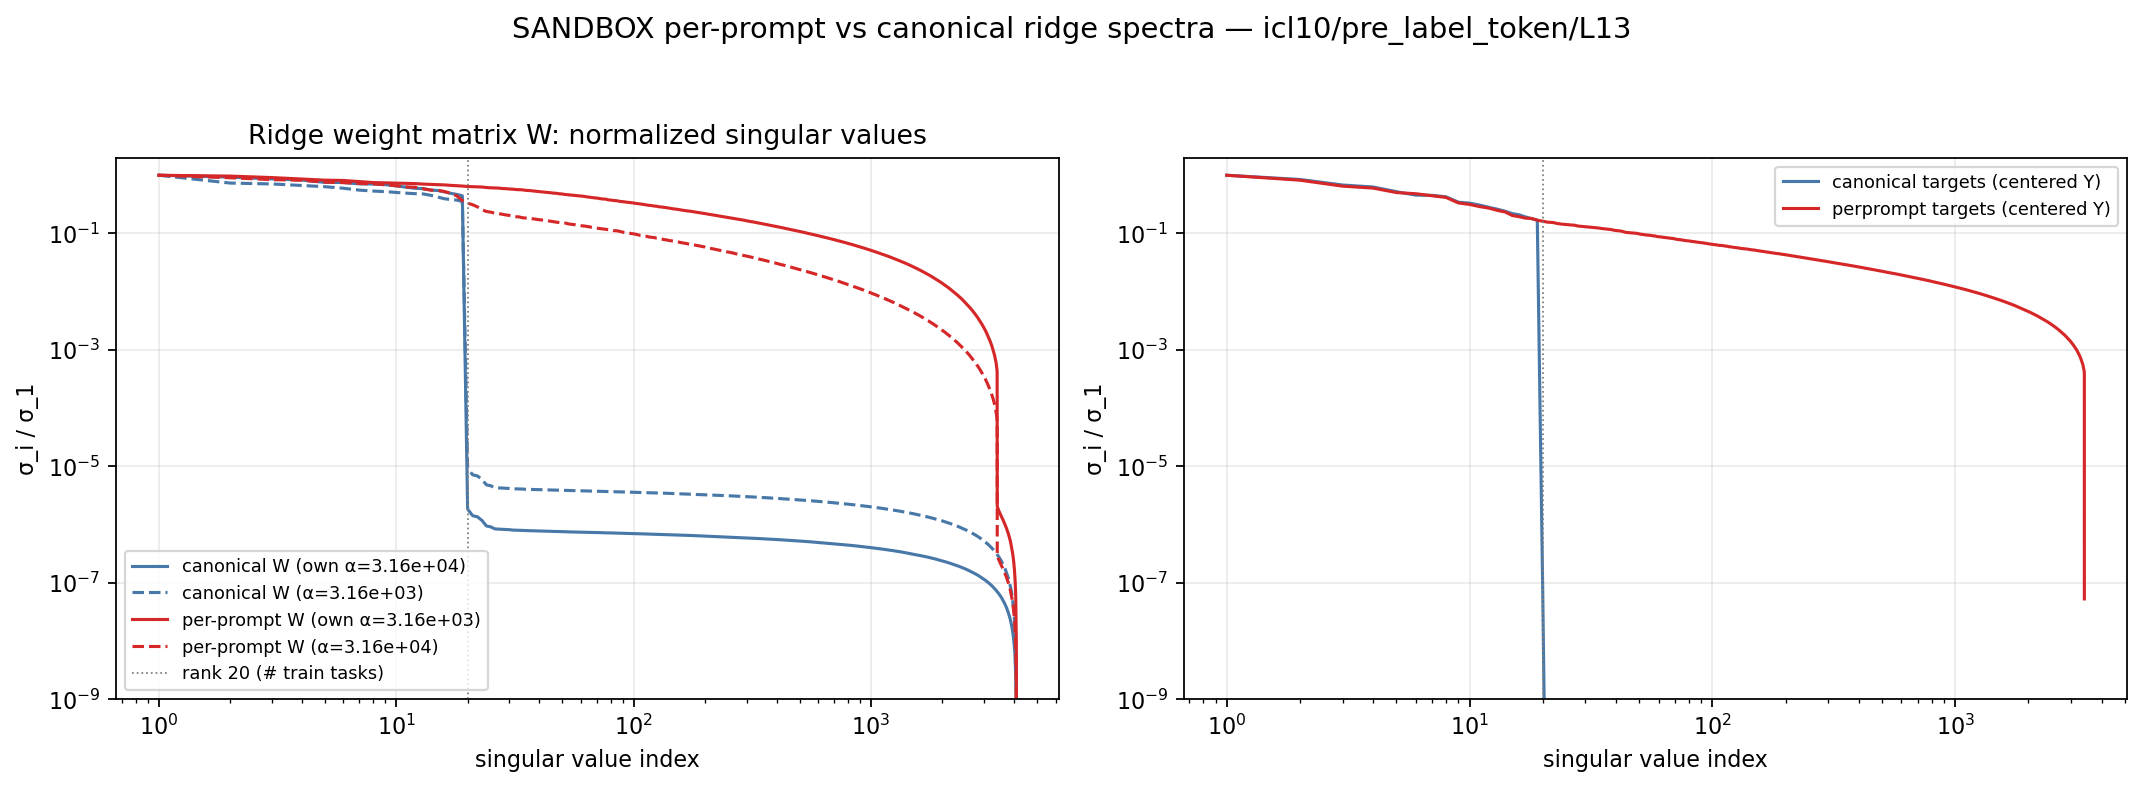
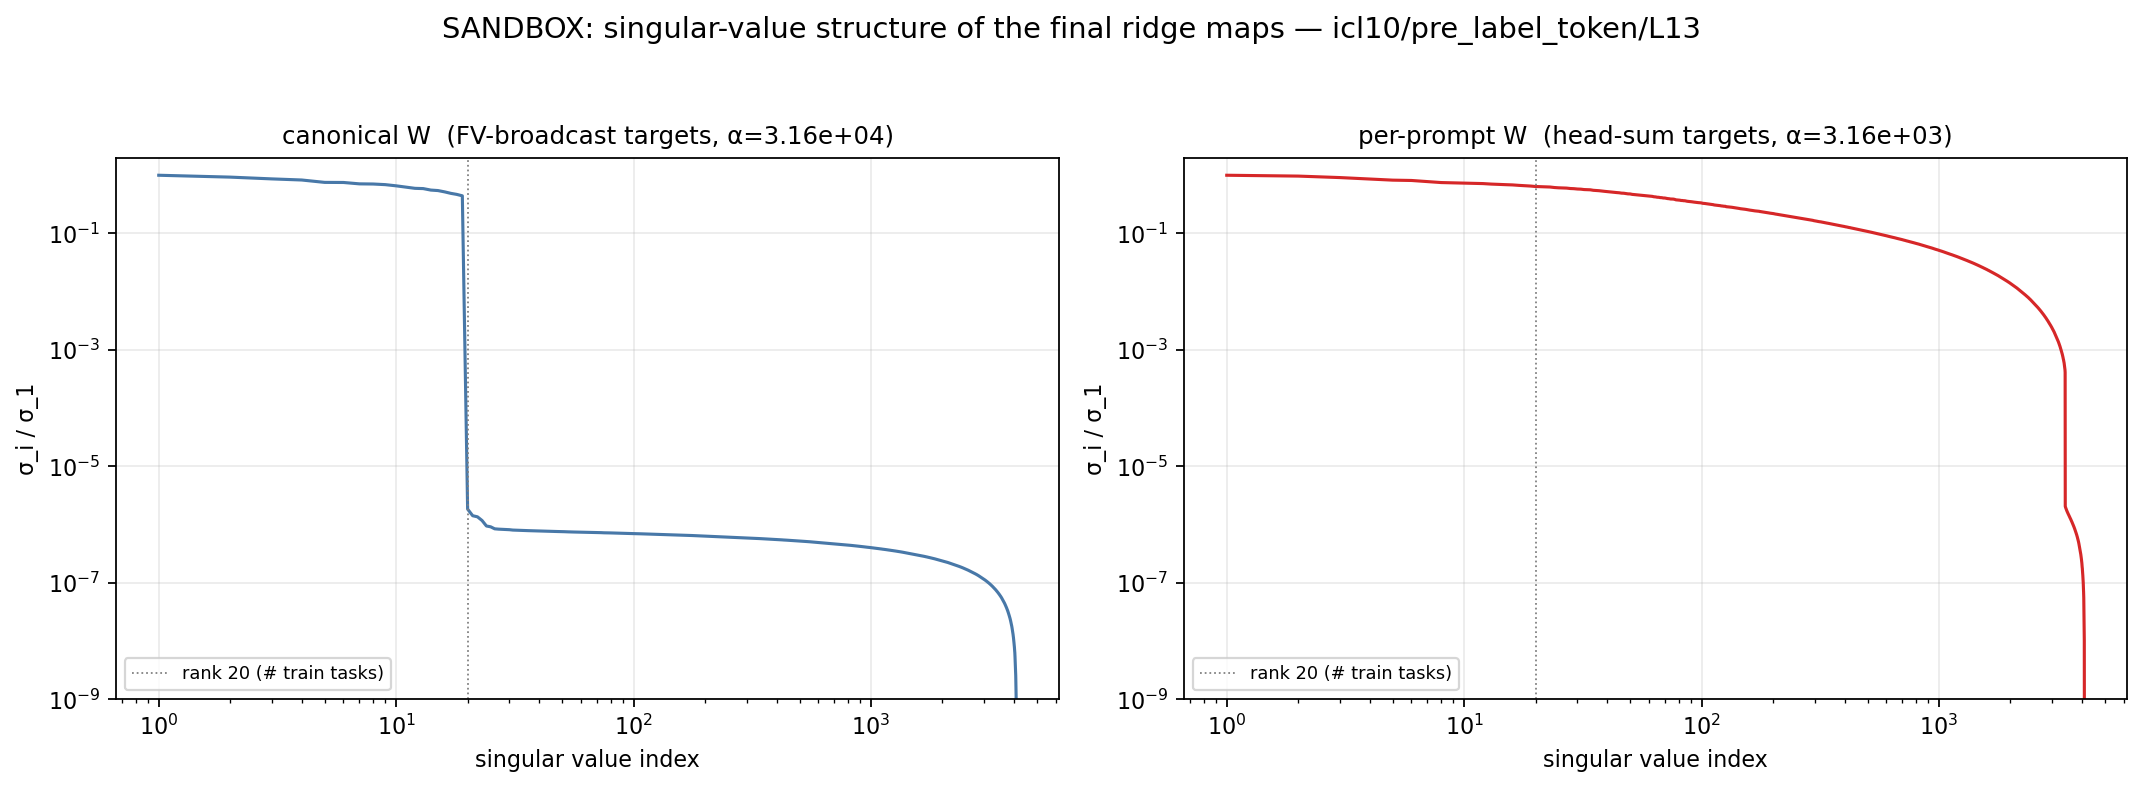
SANDBOX: spectrum figure redesign - two side-by-side panels, final own-alpha maps only
Per user request: one spectrum per panel for qualitative shape comparison
(no magnitude overlay, alpha-swap arms and target spectra dropped from the
figure; all spectra remain in spectra.npz).

diff --git a/src/sandbox/perprompt_fv/diagnose_weight_spectrum.py b/src/sandbox/perprompt_fv/diagnose_weight_spectrum.py
@@ -194,33 +194,27 @@ def main():
     np.savez_compressed(args.output_dir / "spectra.npz", **spectra)
     write_json(args.output_dir / "summary.json", summary)
 
-    # Summary figure: weight spectra (left), target spectra (right).
+    # Figure: the two FINAL maps (own CV-chosen alpha each), one spectrum per panel —
+    # side-by-side qualitative shape comparison, not a magnitude overlay.
+    panels = [
+        ("canonical_alpha_own", f"canonical W  (FV-broadcast targets, α={alphas['canonical']:.3g})", "#4878a8"),
+        ("perprompt_alpha_own", f"per-prompt W  (head-sum targets, α={alphas['perprompt']:.3g})", "#d62728"),
+    ]
     fig, axes = plt.subplots(1, 2, figsize=(13.5, 5.0))
-    styles = {
-        "canonical_alpha_own": dict(color="#4878a8", ls="-", label=f"canonical W (own α={alphas['canonical']:.3g})"),
-        "canonical_alpha_swapped": dict(color="#4878a8", ls="--", label=f"canonical W (α={alphas['perprompt']:.3g})"),
-        "perprompt_alpha_own": dict(color="#d62728", ls="-", label=f"per-prompt W (own α={alphas['perprompt']:.3g})"),
-        "perprompt_alpha_swapped": dict(color="#d62728", ls="--", label=f"per-prompt W (α={alphas['canonical']:.3g})"),
-    }
-    for label, st in styles.items():
+    for ax, (label, title, color) in zip(axes, panels):
         sv = spectra[f"sv_{label}"]
-        axes[0].plot(np.arange(1, len(sv) + 1), sv / sv[0], lw=1.4, **st)
-    axes[0].axvline(20, color="gray", lw=0.8, ls=":", label="rank 20 (# train tasks)")
-    axes[0].set_title("Ridge weight matrix W: normalized singular values")
-    for mode, color in (("canonical", "#4878a8"), ("perprompt", "#d62728")):
-        sv = spectra[f"sv_targets_{mode}"]
-        axes[1].plot(np.arange(1, len(sv) + 1), sv / sv[0], lw=1.4, color=color,
-                     label=f"{mode} targets (centered Y)")
-    axes[1].axvline(20, color="gray", lw=0.8, ls=":")
-    for ax in axes:
+        ax.plot(np.arange(1, len(sv) + 1), sv / sv[0], lw=1.4, color=color)
+        ax.axvline(20, color="gray", lw=0.8, ls=":", label="rank 20 (# train tasks)")
         ax.set_xscale("log")
         ax.set_yscale("log")
         ax.set_xlabel("singular value index")
         ax.set_ylabel("σ_i / σ_1")
         ax.set_ylim(1e-9, 2)
         ax.grid(alpha=0.25)
-        ax.legend(fontsize=8)
-    fig.suptitle(f"SANDBOX per-prompt vs canonical ridge spectra — {summary['cell']}", fontsize=13)
+        ax.set_title(title, fontsize=11)
+        ax.legend(fontsize=8, loc="lower left")
+    fig.suptitle(f"SANDBOX: singular-value structure of the final ridge maps — {summary['cell']}",
+                 fontsize=13)
     fig.tight_layout(rect=(0, 0, 1, 0.94))
     fig.savefig(args.output_dir / "spectra_comparison.png", dpi=160, bbox_inches="tight")
     plt.close(fig)
